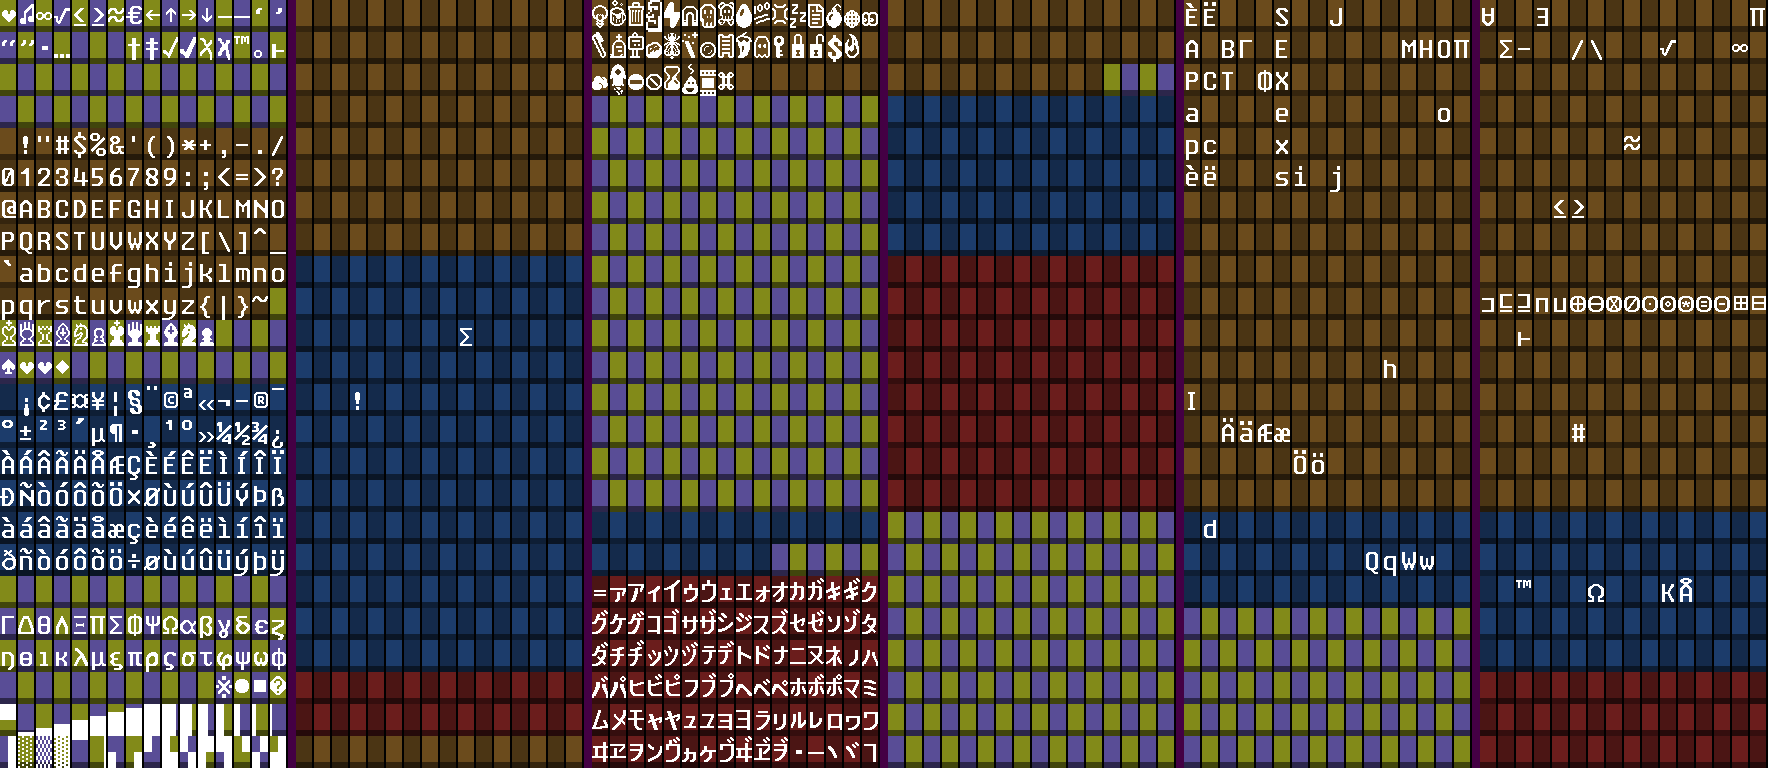
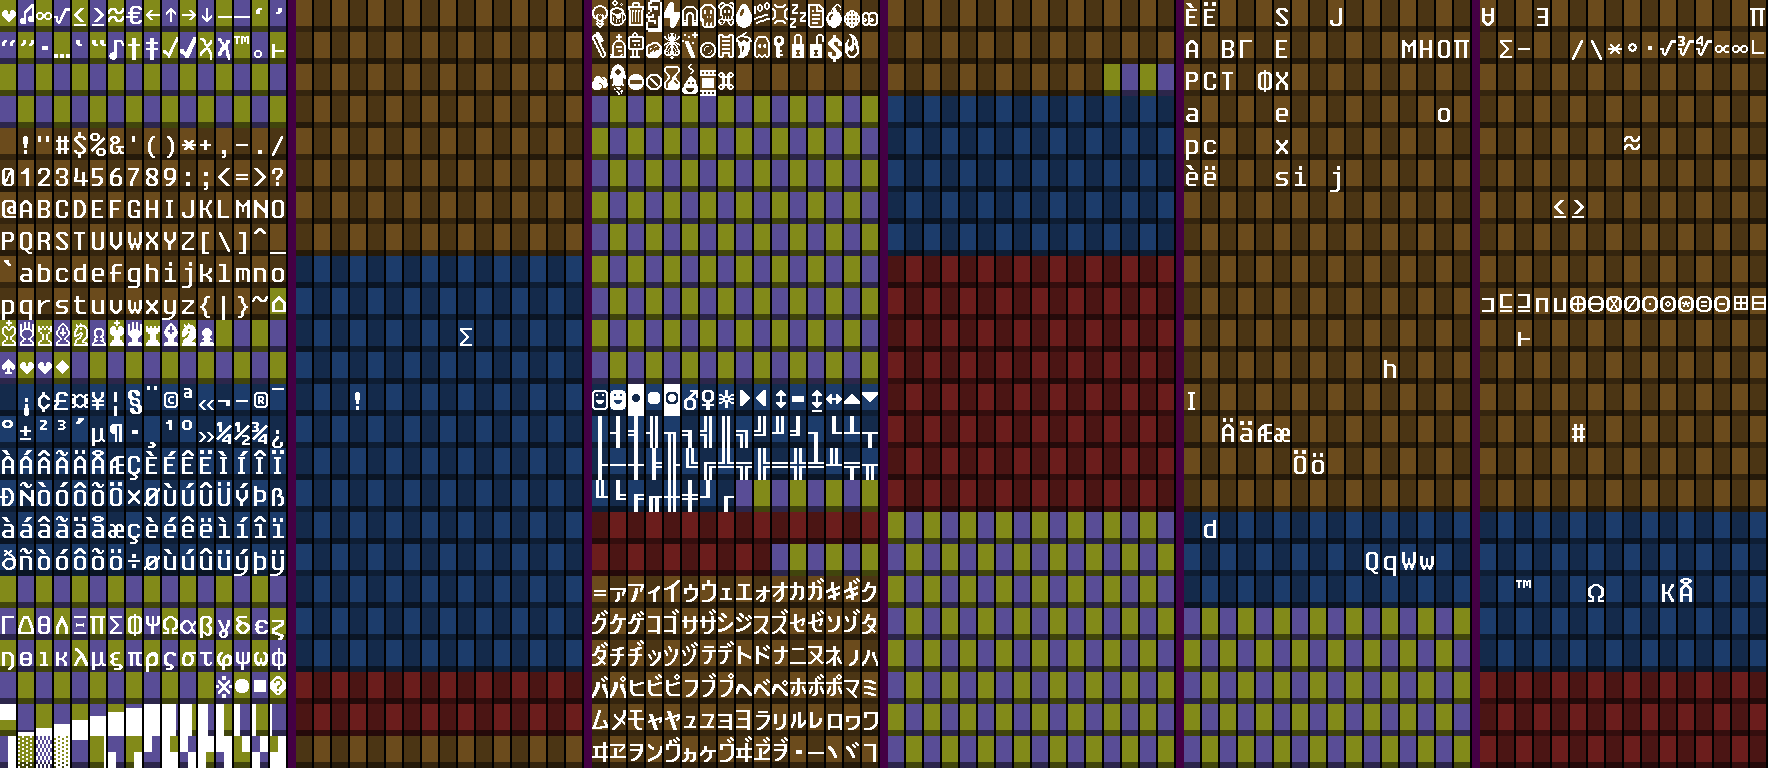
(almost) finish Codepage 437 support in FixederSys family
git-svn-id: file:///home/runner/work/tom7misc-sync-action/tom7misc-sync-action/upstream/trunk@6991 c7e11af0-4c7a-11f1-9edd-117cb6f09d55

Changed region(s): [[0.3111, 0.5, 0.4977, 1.0]]

diff --git a/bit7/font-image.cc b/bit7/font-image.cc
@@ -123,16 +123,11 @@ static PageInfo PageBit7Classic() {
     // LEFT DOUBLE QUOTE, RIGHT DOUBLE QUOTE
     0x201C, 0x201D,
 
-    // BULLET
-    0x2022,
-    // HORIZONTAL ELLIPSIS
-    0x2026,
-    // SINGLE HIGH REVERSED 9 QUOTE
-    0x201B,
-    // DOUBLE HIGH REVERSED 9 QUOTE
-    0x201F,
-    // unclaimed
-    -1,
+    0x2022,  // BULLET
+    0x2026,  // HORIZONTAL ELLIPSIS
+    0x201B,  // SINGLE HIGH REVERSED 9 QUOTE
+    0x201F,  // DOUBLE HIGH REVERSED 9 QUOTE
+    0x266A,  // (♪) EIGHTH NOTE
 
     // dagger, double-dagger
     0x2020, 0x2021,
@@ -173,7 +168,10 @@ static PageInfo PageBit7Classic() {
     0x50, 0x51, 0x52, 0x53, 0x54, 0x55, 0x56, 0x57, 0x58, 0x59, 0x5A, 0x5B, 0x5C, 0x5D, 0x5E, 0x5F,
     0x60, 0x61, 0x62, 0x63, 0x64, 0x65, 0x66, 0x67, 0x68, 0x69, 0x6A, 0x6B, 0x6C, 0x6D, 0x6E, 0x6F,
     0x70, 0x71, 0x72, 0x73, 0x74, 0x75, 0x76, 0x77, 0x78, 0x79, 0x7A, 0x7B, 0x7C, 0x7D, 0x7E,
-    -1,
+
+    // 0x7F is DELETE in unicode (no glyph) but in CP-437 this
+    // renders as a "house" symbol
+    0x2302,  // (⌂) HOUSE
 
     // white king, queen, rook, bishop, knight, pawn
     0x2654,
@@ -674,6 +672,7 @@ static PageInfo PageBit7Extended() {
 
   info.sections = {
     {0, 16 * 3},
+    {16 * 12, 4 * 16 - 8},
     {16 * 16, 2 * 16 - 6},
     {18 * 16, 6 * 16},
   };
@@ -789,10 +788,75 @@ static PageInfo PageBit7Extended() {
     -1, -1, -1, -1, -1, -1, -1, -1, -1, -1, -1, -1, -1, -1, -1, -1,
     -1, -1, -1, -1, -1, -1, -1, -1, -1, -1, -1, -1, -1, -1, -1, -1,
 
-    -1, -1, -1, -1, -1, -1, -1, -1, -1, -1, -1, -1, -1, -1, -1, -1,
-    -1, -1, -1, -1, -1, -1, -1, -1, -1, -1, -1, -1, -1, -1, -1, -1,
-    -1, -1, -1, -1, -1, -1, -1, -1, -1, -1, -1, -1, -1, -1, -1, -1,
-    -1, -1, -1, -1, -1, -1, -1, -1, -1, -1, -1, -1, -1, -1, -1, -1,
+    // Remainder of CP437.
+    0x263A,  // (☺)
+    0x263B,  // (☻)
+    // suits are in main page
+    // cullet is in main page
+    0x25D8,  // (◘)
+    0x25CB,  // (○)
+    0x25D9,  // (◙)
+    0x2642,  // (♂)
+    0x2640,  // (♀)
+    // notes in main page
+    0x263C,  // (☼),
+    0x25BA,  // (►),
+    0x25C4,  // (◄),
+    0x2195,  // (↕),
+    // double exclamation, pilcrow, section in main page
+    0x25AC,  // (▬),
+    0x21A8,  // (↨), UP DOWN ARROW WITH BASE
+    // up, down, right, left arrows in main page
+    // right angle in main page
+    0x2194,  // (↔)
+    0x25B2,  // (▲)
+    0x25BC,  // (▼)
+
+    // Various line drawing; same order as CP-437
+    0x2502,  // (│)
+    0x2524,  // (┤)
+    0x2561,  // (╡)
+    0x2562,  // (╢)
+    0x2556,  // (╖)
+    0x2555,  // (╕)
+    0x2563,  // (╣)
+    0x2551,  // (║)
+    0x2557,  // (╗)
+    0x255D,  // (╝)
+    0x255C,  // (╜)
+    0x255B,  // (╛)
+    0x2510,  // (┐)
+    0x2514,  // (└)
+    0x2534,  // (┴)
+    0x252C,  // (┬)
+
+    0x251C,  // (├)
+    0x2500,  // (─)
+    0x253C,  // (┼)
+    0x255E,  // (╞)
+    0x255F,  // (╟)
+    0x255A,  // (╚)
+    0x2554,  // (╔)
+    0x2569,  // (╩)
+    0x2566,  // (╦)
+    0x2560,  // (╠)
+    0x2550,  // (═)
+    0x256C,  // (╬)
+    0x2567,  // (╧)
+    0x2568,  // (╨)
+    0x2564,  // (╤)
+    0x2565,  // (╥)
+
+    0x2559,  // (╙)
+    0x2558,  // (╘)
+    0x2552,  // (╒)
+    0x2553,  // (╓)
+    0x256B,  // (╫)
+    0x256A,  // (╪)
+    0x2518,  // (┘)
+    0x250C,  // (┌)
+    // Unclaimed
+    -1, -1, -1, -1, -1, -1, -1, -1,
 
     // Two rows for Greek Extended (custom mapping)
     0x0385,  // (΅) GREEK DIALYTIKA TONOS
